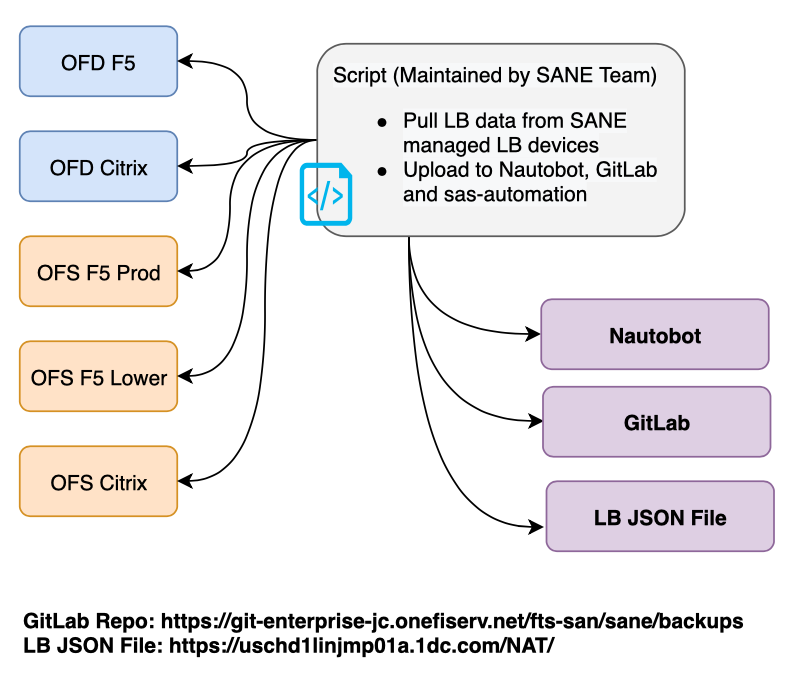
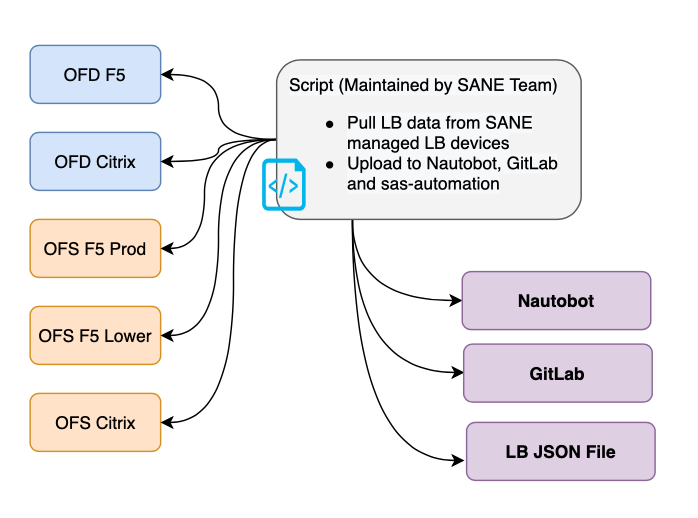
Update diagram

diff --git a/README.md b/README.md
@@ -20,11 +20,14 @@ A Python script will query F5 BigIQ and Citrix ADC, pull configured devices and 
 
 ### Diagram
 
-![alt text](img/Diagram.png "Title Text")
+[GitLab VIP Data Backup](https://git-enterprise-jc.onefiserv.net/fts-san/sane/backups).
+[SANE LB JSON file](https://uschd1linjmp01a.1dc.com/NAT/).
+
+![alt text](img/Diagram.png "Script Diagram")
 
 ### Flowchart
 
-![alt text](img/Flowchart.png "Title Text")
+![alt text](img/Flowchart.png "Script Flowchart")
 
 ### Questions
 
